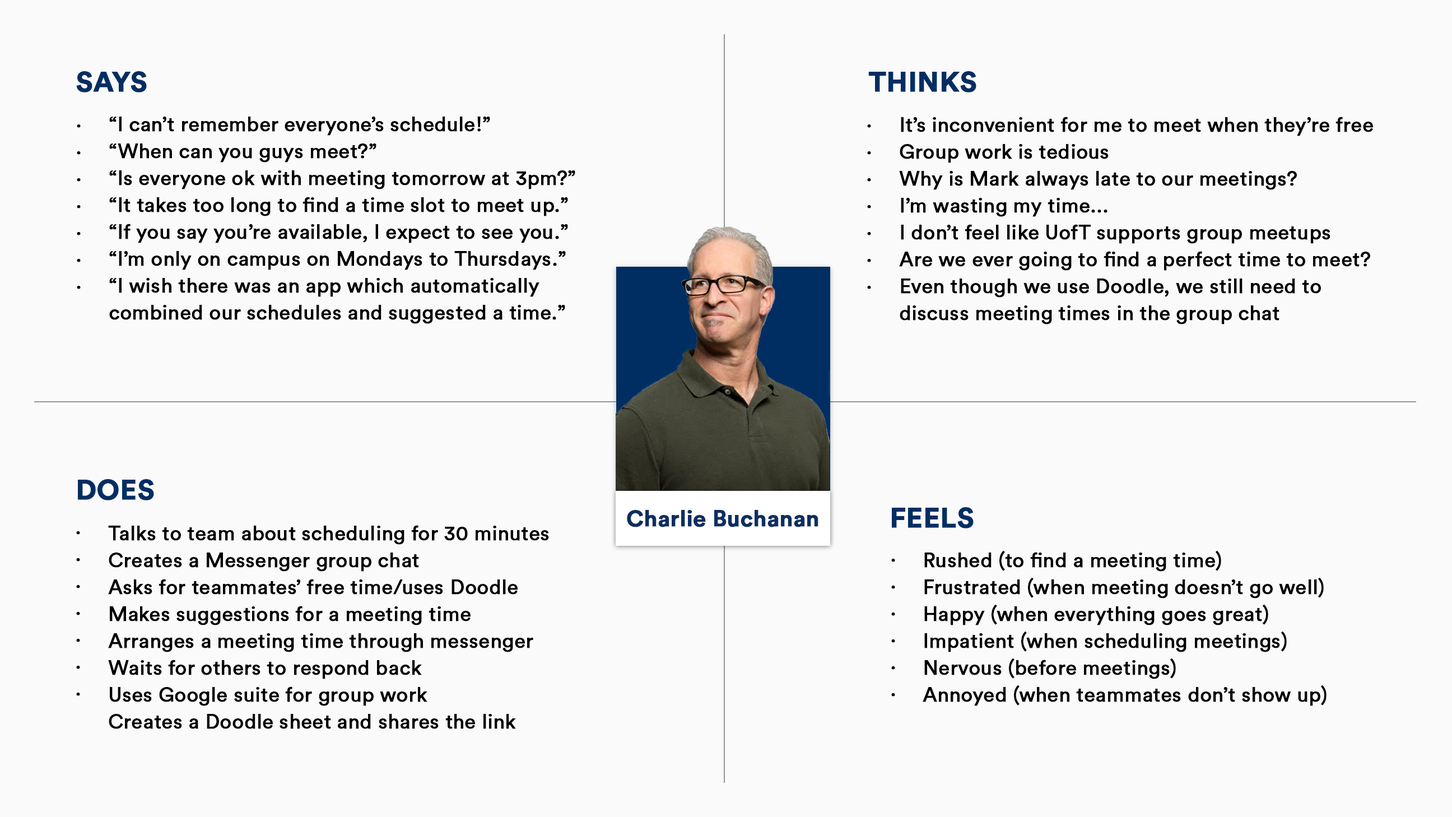
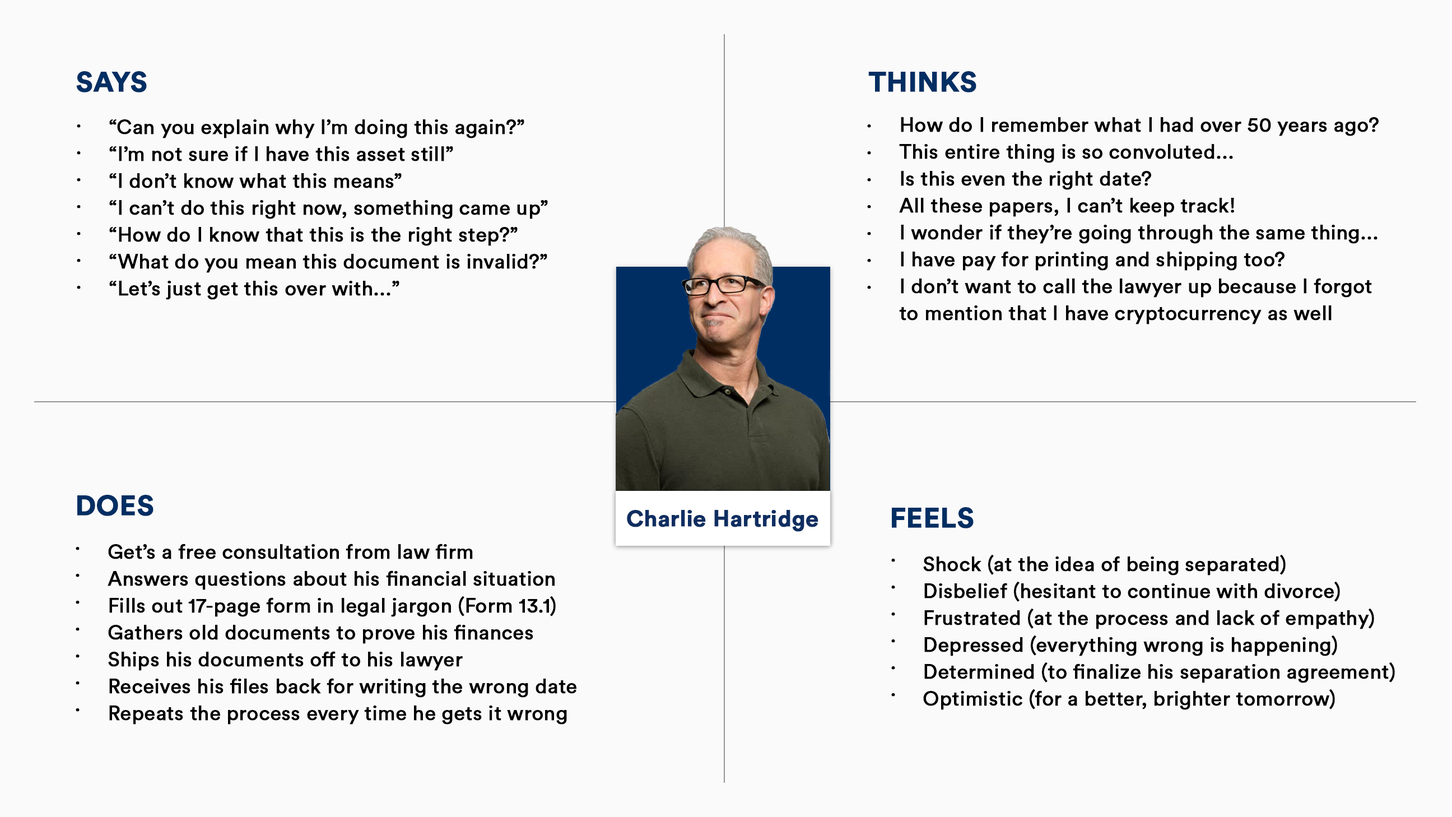
fin

diff --git a/fd.html b/fd.html
@@ -92,13 +92,13 @@
         <div class="col-sm-5 col-md-5 col-lg-5 case-brief">
           <h3 class="mb-3">Problem Statement</h3>
           <p class="">Financial disclosure is typically the most time consuming, expensive, and unpleasant process in the dispute resolution process.</p>
-          <p class="">Simplifying this processes on a professional platform helps reduce complications, administrative headaches, and liability risks.</p>
+          <p class="">Simplifying this processes on a professional platform helps minimize risks and complications while reducing expenses by <a href="#reflection">86%.</a></p>
         </div>
         <div class="col-sm-6 col-md-6 col-lg-6 case-meta">
           <div class="row case-meta-row justify-content-end">
             <div class="col-sm-5 col-md-5 col-lg-5 case-meta-column">
               <p class="case-meta-title">Project Duration</p>
-              <p class="">14 weeks <br>(May - Aug 2019)</p>
+              <p class="">14 weeks <br>(May - Aug 2018)</p>
             </div>
             <div class="col-sm-5 col-md-5 col-lg-5 case-meta-column">
               <p class="case-meta-title">Team Size</p>
@@ -123,13 +123,12 @@
         <img src="./images/fd/intro.jpg" class="img-fluid case-intro-img" alt="intro image">
         <div class="py-2"></div>
         <h6 class="">Like many things, the <a href="https://thedesignsquiggle.com/" target="_blank">design squiggle</a> can be used to understand the divorce process.</h6>
-        <h6>Don't worry, I've spared you the details of the messy nitty gritty.</span></h6>
       </div>
 
       <div class="case-section">
         <div class="case-section-intro">
           <h3 class="case-section-title">Defining the Problem <span class="hide">Space</span></h3>
-          <p class="case-section-desc">We've partnered with the <a href="http://blogs.studentlife.utoronto.ca/innovationhub/" target="_blank">Innovation Hub</a> at the University of Toronto to improve student experiences. Our key challenge was to improve project management dynamics, specifically in terms of student collaboration. These were the key insights in our user discovery process.</p>
+          <p class="case-section-desc">For research throughout the project, we collaborated with an industry partner who gave us access to information regarding their practice. Since we focused on dispute resolution, we looked into the legal separation process in Ontario. These were the key insights in our user discovery process.</p>
           <div class="py-3"></div>
         </div>
 
@@ -144,15 +143,15 @@
             <p class="case-subsection-title">Secondary Research</p>
             <p><a href="https://link.springer.com/content/pdf/10.1007/BF01054464.pdf" target="_blank">Retting et al.</a> suggests that in dispute processes such as in divorce proceedings, individuals are primarily concerned with fair procedures and <strong>procedural justice</strong>. Elements of procedural justice include exhibiting respect, voice, understanding, neutral decision-making, and helpfulness.</p>
 
-            <a href="https://www.courtinnovation.org/sites/default/files/documents/P_J_Evaluation.pdf" target="_blank"><p class="case-quote">Procedural justice research has shown that when defendants and litigants perceive the court process to be fair, they are more likely to comply with court orders and to follow the law in the future, regardless of whether they “win” or “lose” their case.</p></a>
+            <a href="https://www.courtinnovation.org/sites/default/files/documents/P_J_Evaluation.pdf" target="_blank"><p class="case-quote">Procedural justice research has shown that when defendants and litigants perceive the court process to be fair, they are more likely to comply with court orders and to follow the law in the future, <strong>regardless of whether they “win” or “lose” their case.</strong></p></a>
 
             <p class="">As such, procedural justice was a concept that we constantly used when empathizing with users.</p>
-            <p class="">Needing a better understanding of the current divorce process, we collaborated with a local divorce firm and simplified their divorce process into six steps:</p>
+            <p class="">Needing a better understanding of the current divorce process, we collaborated with a local divorce firm and summarized their divorce process into six steps:</p>
             <a href="./images/fd/process.jpg" data-toggle="lightbox">
               <img src="./images/fd/process.jpg" class="img-fluid case-img zoomer" alt="current process image">
             </a>
 
-            <p>A <a href="https://www.separation.ca/help-centre/separation/importance-of-financial-disclosure/" target="_blank">financial disclosure</a> (second step) is a holistic snapshot of a client's financial situation including assets, liabilities, expenses, etc. It typically involves the help of CDFAs, lawyers, and mediators. This step allows legal procedings to divide financial components evenly among spouses in a divorce. Our research with the firm suggested that financial disclosure is the most painful step.</p>
+            <p>A <a href="https://www.separation.ca/help-centre/separation/importance-of-financial-disclosure/" target="_blank">financial disclosure</a> (second step) is a holistic snapshot of a client's financial situation including assets, liabilities, expenses, etc. It typically involves the help of CDFAs, lawyers, and mediators. This step allows legal proceedings to divide financial components evenly among spouses in a divorce. Our research with the firm suggested that financial disclosure is the most painful step.</p>
 
             <div class="py-3"></div>
 
@@ -171,7 +170,7 @@
       <div class="case-section">
         <div class="case-section-intro">
           <h3 class="case-section-title">Understanding the User</h3>
-          <p class="case-section-desc">The core principle of user-centered design is involving the user within every part of the process. Identifying our users and developing empathy for their struggles allows us to determine the direction of our solution as well as specify our KPIs and success metrics down the line.</p>
+          <p class="case-section-desc">The core principle of user-centered design is involving the user within every part of the process. Developing empathy for our users as opposed to making assumptions allows us to determine the direction of our solution and to clarify what our users need throughout the process.</p>
           <div class="py-3"></div>
         </div>
 
@@ -212,7 +211,7 @@
       <div class="case-section">
         <div class="case-section-intro">
           <h3 class="case-section-title">Analysing the Scope</h3>
-          <p class="case-section-desc">Before we jump into designing screens, we need to gather a better understanding of the project scope. </p>
+          <p class="case-section-desc">In order to define the project scope, it is vital that we combine our understanding of the project scope and our empathy with our users. We used the personas we created in the previous step to define their needs, addressed these needs by ideating product features, and mapped the user flow.</p>
           <div class="py-3"></div>
         </div>
 
@@ -229,10 +228,10 @@
             <div class="user-quote">
               <h1 class="quotation-mark">“</h1>
               <blockquote class="mb-3 quote">
-                <h6>I need to use a single scheduling platform that <strong>everyone already uses</strong> so that no one needs to waste time and effort making a new account.</h6>
-                <h6>I need a way for everyone to <strong>share their schedules</strong> so that everyone knows everyone else's availability.</h6>
-                <h6>I need to <strong>see the options</strong> of possible meetup times so that everyone can collectively vote on a time to meet.</h6>
-                <h6>I need to be able to <strong>update my schedule in a convenient way</strong> so that the group can quickly revise the meetup schedule as needed.</h6>
+                <h6>I need to <strong>gather client documents on a centralized platform</strong> so I don't have to worry about printing / courier expenses, as well as losing important documents.</h6>
+                <h6>I need to <strong>connect with other professionals</strong> so that I can collaborate and share client documents (with their consent) on an as-needed basis.</h6>
+                <h6>I need to <strong>monitor the progress</strong> of client's financial disclosures so I can offer help if they get stuck or when they need motivation.</h6>
+                <h6>I need to <strong>have legal forms properly filled based on the disclosure</strong> so that I don't need to waste the client's money and my time redundantly filling it myself.</h6>
               </blockquote>
               <div class="d-flex align-items-center vcard">
                 <figure class="mb-0 mr-3">
@@ -247,10 +246,10 @@
             <div class="user-quote">
               <h1 class="quotation-mark">“</h1>
               <blockquote class="mb-3 quote">
-                <h6>I need to use a single scheduling platform that <strong>everyone already uses</strong> so that no one needs to waste time and effort making a new account.</h6>
-                <h6>I need a way for everyone to <strong>share their schedules</strong> so that everyone knows everyone else's availability.</h6>
-                <h6>I need to <strong>see the options</strong> of possible meetup times so that everyone can collectively vote on a time to meet.</h6>
-                <h6>I need to be able to <strong>update my schedule in a convenient way</strong> so that the group can quickly revise the meetup schedule as needed.</h6>
+                <h6>I need to <strong>convenient way to have my lawyer validate my documents</strong> so that I don't have to ship those documents to her, only to have it sent back.</h6>
+                <h6>I need to <strong>understand complicated legal and financial terms</strong> so that I can know exactly what to do at any given time without feeling overwhelmed.</h6>
+                <h6>I need to <strong>constantly see my own progress</strong> so that I can know exactly where I am and how much work is left before my disclosure is completed.</h6>
+                <h6>I need to <strong>gather old documents to prove my financial situation</strong> rather than going to banks and other places and collecting everything myself.</h6>
               </blockquote>
               <div class="d-flex align-items-center vcard">
                 <figure class="mb-0 mr-3">
@@ -298,7 +297,7 @@
               <img src="./images/fd/flow3.jpg" class="img-fluid zoomer" alt="user flow3 image">
             </a>
             <div class="py-4"></div>
-            <p>For clients, we broke the process down into a screening questionnaire, followed by an ongoing checklist of the documents they needed provide in situations where the platform did not automatically source the documents through a secure API connection with a third party.</p>
+            <p>For clients, we broke the process down into a screening questionnaire, followed by an ongoing checklist of the documents they needed to provide (in situations where the platform did not automatically source the documents through a secure API connection with a third party).</p>
             <div class="py-3"></div>
             <a href="./images/fd/flow1.jpg" data-toggle="lightbox">
               <img src="./images/fd/flow1.jpg" class="img-fluid zoomer" alt="user flow1 image">
@@ -333,14 +332,14 @@
             <p>We gathered feedback regarding the wireframes through client-walkthroughs and interviews with professionals from our industry partner. With their experience conducting financial disclosures, they had excellent feedback regarding our innovation and insight into how a client might feel.</p>
 
             <p><strong>What Went Well</strong><br>
-            Our participants liked the idea of simplifying the process to the client in steps and the way progress was always visualized in the interface. They especially liked that users had the option to do the screening interview themselves or with a professional leading them. Finally, they found that autofilling information from the disclosure into legal documents was extermely valuable.</p>
+            Our participants liked the idea of simplifying the process to the client in steps and the way progress was always visualized in the interface. They especially liked that users had the option to do the screening interview themselves or with a professional leading them. Finally, they found that autofilling information from the disclosure into legal documents was extremely valuable.</p>
 
             <p><strong>What Could be Improved</strong><br>
-            Moving forward, we needed to address user's concerns about integrating a client management system into the platform for multiple disclosures, client's ability to edit and see submitted documents, and professional's ability to keep track of related activities by collaborators.</p>
+            Moving forward, we needed to address user's concerns about integrating a client management system into the platform for multiple disclosures, the client's ability to edit and see submitted documents, and the professional's ability to keep track of related activities by collaborators.</p>
             <div class="py-3"></div>
 
             <p class="case-subsection-title">User Scenario Prototyping</p>
-            <p>After lean evaluation, we jumped right into high-fidelity prototyping to support the team's agile development process.</p>
+            <p>After lean evaluation, we jumped right into high-fidelity prototyping to support the team's agile development process. We specifically focused on particular user scenarios.</p>
             <div class="py-2"></div>
             <a href="./images/fd/hifi.jpg" class="" data-toggle="lightbox">
               <img src="./images/fd/hifi.jpg" class="img-fluid zoomer" alt="redesigns image">
@@ -359,7 +358,7 @@
       <div class="case-section">
         <div class="case-section-intro">
           <h3 class="case-section-title">Verifying the Efficacy</h3>
-          <p class="case-section-desc">Before the next design iteration, it's imperative that we conduct summative research to examine our progress and the effectiveness of our prototype. We used the <a href="http://www.id-book.com/fourthedition/downloads/ID3Chapter13Anevaluationframework.pdf" target="_blank">DECIDE framework</a> to validate any of our previous assumptions and examine the efficacy of the MVP.</p>
+          <p class="case-section-desc">Before the next design iteration, it's imperative that we conduct summative research to examine our progress and the effectiveness of our prototype. We used the <a href="http://www.id-book.com/fourthedition/downloads/ID3Chapter13Anevaluationframework.pdf" target="_blank">DECIDE framework</a> and elements of procedural justice to validate any of our previous assumptions and examine the efficacy of the MVP.</p>
           <div class="py-3"></div>
         </div>
 
@@ -383,7 +382,7 @@
             <div class="py-3"></div>
 
             <p class="case-subsection-title">Focus Group Role-Play Study</p>
-            <p class="">We also gathered five family law professionals from our industry partner as well as five participants who approximately fit the demographic of the client persona.</p>
+            <p class="">We also gathered five family law professionals from our industry partner as well as five participants who approximately fit the demographic of the client persona and had no experience with the financial disclosure process.</p>
 
             <p class="">To introduce the platform to the focus group, we asked both persona types to role-play a professional-client relationship and complete a financial disclosure with data provided via an information package. This included navigating the dashboard, as well as completing a client interview, checklist, file validation, and automatic legal document generation.</p>
 
@@ -412,8 +411,8 @@
             <p class="case-subsection-title">Style Guide</p>
             <img src="./images/fd/style.jpg" class="img-fluid case-img" alt="style guide image">
             <div class="py-3"></div>
-            <p class="case-subsection-title">Platform Tour</p>
-            <p>Using the feedback from our evaluation session, we worked to simplify the platform futher and make the interface more intuitive.</p>
+            <p class="case-subsection-title">Second Iteration</p>
+            <p>Using the feedback from our evaluation session, we worked to simplify the platform further and make the interface more intuitive.</p>
             <p>One of our primary focuses was on redesigning the checklist portion - we organized the UI according to tasks that the client needs to do, tasks that the professional needs to do, and what has been completed. This highlights what the user needs to complete at any given time.</p>
             <div class="py-2"></div>
             <a href="./images/fd/redesign.jpg" class="" data-toggle="lightbox">
@@ -428,17 +427,17 @@
         </div>
       </div>
 
-      <div class="case-reflection">
+      <div class="case-reflection" id="reflection">
         <h3 class="case-reflection-title">Reflection</h3>
-        <p>According to a <a href="https://docs.google.com/spreadsheets/d/1qIECXFXO7Hcfdk81L-ysmguwKzyEm4jj5PpoXhwO2aA/edit?usp=sharing" target="_blank">cost evaluation</a> based on competitive analyses, this platform can help the user save <strong>86%</strong> of monetary expenses compared to the traditional process. By the end of this project, this platform also secured an offical partnership with the <a href="https://www.oafm.on.ca/" target="_blank">Ontario Association for Family Mediation</a>. Along the way, I learned three key things that will extend to my future work:</p>
+        <p>According to a <a href="https://docs.google.com/spreadsheets/d/1qIECXFXO7Hcfdk81L-ysmguwKzyEm4jj5PpoXhwO2aA/edit?usp=sharing" target="_blank">cost evaluation</a> based on competitive analyses, this platform can help the user save <strong>86%</strong> of monetary expenses compared to the traditional process. By the end of this project, this platform also secured an official partnership with the <a href="https://www.oafm.on.ca/" target="_blank">Ontario Association for Family Mediation</a>. Along the way, I learned three key things that will extend to my future work:</p>
         <div class="py-2"></div>
-        <p class="case-subsection-title">Keep it quick, keep it agile</p>
+        <p class="case-subsection-title">Keep it Quick, Keep it Agile</p>
         <p class="">Many aspects of user-centered design seem linear; just because we learn about different tools in school doesn't mean we have to use them for every project! Weigh the pros and cons and ship a MVP for quick, iterative prototyping.</p>
         <div class="py-2"></div>
-        <p class="case-subsection-title">Cross-collaboration is key</p>
+        <p class="case-subsection-title">Cross-Collaboration is Key</p>
         <p class="">Working in a small team allowed me to communicate with members beyond my scope of expertise. By learning more and more about their work, I was to understand their constraints and requirements to balance user needs with business needs.</p>
         <div class="py-2"></div>
-        <p class="case-subsection-title">Missed the mark? Do it again </p>
+        <p class="case-subsection-title">Missed the Mark? Do it Again </p>
         <p class="">We felt distraught when we learned that weeks of research and hard work led to a subpar usability score. With a month left to redesign the platform, we applied lean UX principles with quick iterations to find success.</p>
         <div class="py-2"></div>
         <p class="">Moving forward with this solution, we would like to analyse the platform longitudinally to verify that it saves time for our users compared to the traditional process. Additionally, we want to continue exploring deeper areas of brand customization to support buy-in from enterprise-level users and professionals who manage small teams on the platform.</p>      

diff --git a/avail.html b/avail.html
@@ -43,13 +43,13 @@
                     <li class="nav-item dropdown">
                         <a href="./index.html" class="nav-link active dropdown-toggle" aria-labelledby="navbarDropdown" id="navbarDropdown" role="button" data-toggle="dropdown"><span data-hover="Projects">Projects</span></a>
                         <div class="dropdown-menu hide">
-                          <a class="dropdown-item" href="#">Financial Disclosure</a>
+                          <a class="dropdown-item" href="./fd.html">Financial Disclosure</a>
                           <a class="dropdown-item active" href="./avail.html">Avail</a>
                           <a class="dropdown-item" href="./obmedia.html">Obsolete Media</a>
                         </div>
                         <ul class="mobile">
                           <li class="nav-item-small">
-                            <a href="#" class="nav-link-small"><span data-hover="Project1">Financial Disclosure</span></a>
+                            <a href="./fd.html" class="nav-link-small"><span data-hover="Project1">Financial Disclosure</span></a>
                             <br>
                             <small class="text-muted nav-link-desc">Disclosure done correctly. The first time.</small>
                           </li>
@@ -336,7 +336,6 @@
 
             <p class="case-subsection-title">Lean Evaluation</p>
             <p>We conducted <i>Wizard of Oz</i> usability testing with a paper prototype to quickly assess the strengths and weaknesses of the initial iteration. We also asked our participants to engage in a think-aloud protocol as they went through the main function of the application (creating a group and scheduling a meeting).</p>
-            <p class="">We briefly screened our participants and defined our inclusion criteria. In total, we had four final participants who were either recent alumni or current undergraduate students whom experienced multiple group projects which required them meeting at least four other students in-person.</p>
             
             <p><strong>What Went Well</strong><br>
             Our participants seemed to like how easy it was to set up a group, the aggregation of every member's calendar into a single group calendar, and the ability to confirm a meeting time which was similar to RSVPing to an event.</p>
@@ -460,12 +459,14 @@
     <!-- FOOTER -->
      <footer class="footer">
           <div class="container">
-              <div class="row">
-                  <div class="col-lg-12 col-12 text-center">
-                      <p class="copyright-text">Made with <span class="uil uil-heart"></span> and <span class="uil uil-code"></span> by Adrian Wong &copy; 2020.
-                        <br><a href="#top">Back to the top.</a>
-                      </p>
-                  </div>
+              <div class="row justify-content-between next-buttons">
+                <a href="./fd.html"><i class='uil uil-arrow-left'></i> Previous Project</a>
+                <a href="./obmedia.html">Next Project <i class='uil uil-arrow-right'></i></a>
+              </div>
+              <div class="col-lg-12 col-12 text-center">
+                <p class="copyright-text">Made with <span class="uil uil-heart"></span> and <span class="uil uil-code"></span> by Adrian Wong &copy; 2020.
+                  <br><a href="#top">Back to the top.</a>
+                </p>
               </div>
           </div>
      </footer>

diff --git a/index.html b/index.html
@@ -42,13 +42,13 @@
                     <li class="nav-item dropdown">
                         <a href="./index.html" class="nav-link active dropdown-toggle" aria-labelledby="navbarDropdown" id="navbarDropdown" role="button" data-toggle="dropdown"><span data-hover="Projects">Projects </span></a>
                         <div class="dropdown-menu hide">
-                          <a class="dropdown-item" href="#">Financial Disclosure</a>
+                          <a class="dropdown-item" href="./fd.html">Financial Disclosure</a>
                           <a class="dropdown-item" href="./avail.html">Avail</a>
                           <a class="dropdown-item" href="./obmedia.html">Obsolete Media</a>
                         </div>
                         <ul class="mobile">
                           <li class="nav-item-small">
-                            <a href="#" class="nav-link-small"><span data-hover="Project1">Financial Disclosure</span></a>
+                            <a href="./fd.html" class="nav-link-small"><span data-hover="Project1">Financial Disclosure</span></a>
                             <br>
                             <small class="text-muted nav-link-desc">Disclosure done correctly. The first time.</small>
                           </li>
@@ -116,7 +116,7 @@
           <div class="row">
             <div class="mx-auto">
 
-                <a href="#">
+                <a href="./fd.html">
                   <div class="project-card row">
                     <div class="col-sm-8 col-md-8 col-lg-8 my-auto project-card-cover">
                       <img src="./images/project/FD2.jpg" class="project-card-img" alt="project image">
@@ -128,15 +128,15 @@
                       <div class="project-quote hide">
                         <h1 class="quotation-mark">“</h1>
                         <blockquote class="mb-4 quote">
-                          <small>This study is currently a work in progress. Please check again later!</small>
+                          <small>Divorce is hard. Not just emotionally, but also because everything just gets so complicated. I don’t know what to do!</small>
                         </blockquote>
                         <div class="d-flex align-items-center vcard">
                           <figure class="mb-0 mr-3">
-                            <img src="images/project/person.jpg" alt="user" class="img-fluid">
+                            <img src="images/fd/charlie.jpg" alt="user" class="img-fluid">
                           </figure>
                           <div class="vcard-text">
-                            <span class="d-block">Jane Doe</span>
-                            <span class="position">Typical User</span>
+                            <span class="d-block">Charlie Hartridge</span>
+                            <span class="position">Divorce Client</span>
                           </div>
                         </div>
                       </div>

diff --git a/obmedia.html b/obmedia.html
@@ -43,13 +43,13 @@
                     <li class="nav-item dropdown">
                         <a href="./index.html" class="nav-link active dropdown-toggle" aria-labelledby="navbarDropdown" id="navbarDropdown" role="button" data-toggle="dropdown"><span data-hover="Projects">Projects</span></a>
                         <div class="dropdown-menu hide">
-                          <a class="dropdown-item" href="#">Financial Disclosure</a>
+                          <a class="dropdown-item" href="./fd.html">Financial Disclosure</a>
                           <a class="dropdown-item" href="./avail.html">Avail</a>
                           <a class="dropdown-item active" href="./obmedia.html">Obsolete Media</a>
                         </div>
                         <ul class="mobile">
                           <li class="nav-item-small">
-                            <a href="#" class="nav-link-small"><span data-hover="Project1">Financial Disclosure</span></a>
+                            <a href="./fd.html" class="nav-link-small"><span data-hover="Project1">Financial Disclosure</span></a>
                             <br>
                             <small class="text-muted nav-link-desc">Disclosure done correctly. The first time.</small>
                           </li>
@@ -530,12 +530,14 @@
     <!-- FOOTER -->
      <footer class="footer">
           <div class="container">
-              <div class="row">
-                  <div class="col-lg-12 col-12 text-center">
-                      <p class="copyright-text">Made with <span class="uil uil-heart"></span> and <span class="uil uil-code"></span> by Adrian Wong &copy; 2020.
-                        <br><a href="#top">Back to the top.</a>
-                      </p>
-                  </div>
+              <div class="row justify-content-between next-buttons">
+                <a href="./avail.html"><i class='uil uil-arrow-left'></i> Previous Project</a>
+                <a href="./fd.html">Next Project <i class='uil uil-arrow-right'></i></a>
+              </div>
+              <div class="col-lg-12 col-12 text-center">
+                <p class="copyright-text">Made with <span class="uil uil-heart"></span> and <span class="uil uil-code"></span> by Adrian Wong &copy; 2020.
+                  <br><a href="#top">Back to the top.</a>
+                </p>
               </div>
           </div>
      </footer>

diff --git a/about.html b/about.html
@@ -40,13 +40,13 @@
                     <li class="nav-item dropdown">
                         <a href="./index.html" class="nav-link dropdown-toggle" aria-labelledby="navbarDropdown" id="navbarDropdown" role="button" data-toggle="dropdown"><span data-hover="Projects">Projects</span></a>
                         <div class="dropdown-menu hide">
-                          <a class="dropdown-item" href="#">Financial Disclosure</a>
+                          <a class="dropdown-item" href="./fd.html">Financial Disclosure</a>
                           <a class="dropdown-item" href="./avail.html">Avail</a>
                           <a class="dropdown-item" href="./obmedia.html">Obsolete Media</a>
                         </div>
                         <ul class="mobile">
                           <li class="nav-item-small">
-                            <a href="#" class="nav-link-small"><span data-hover="Project1">Financial Disclosure</span></a>
+                            <a href="./fd.html" class="nav-link-small"><span data-hover="Project1">Financial Disclosure</span></a>
                             <br>
                             <small class="text-muted nav-link-desc">Disclosure done correctly. The first time.</small>
                           </li>
